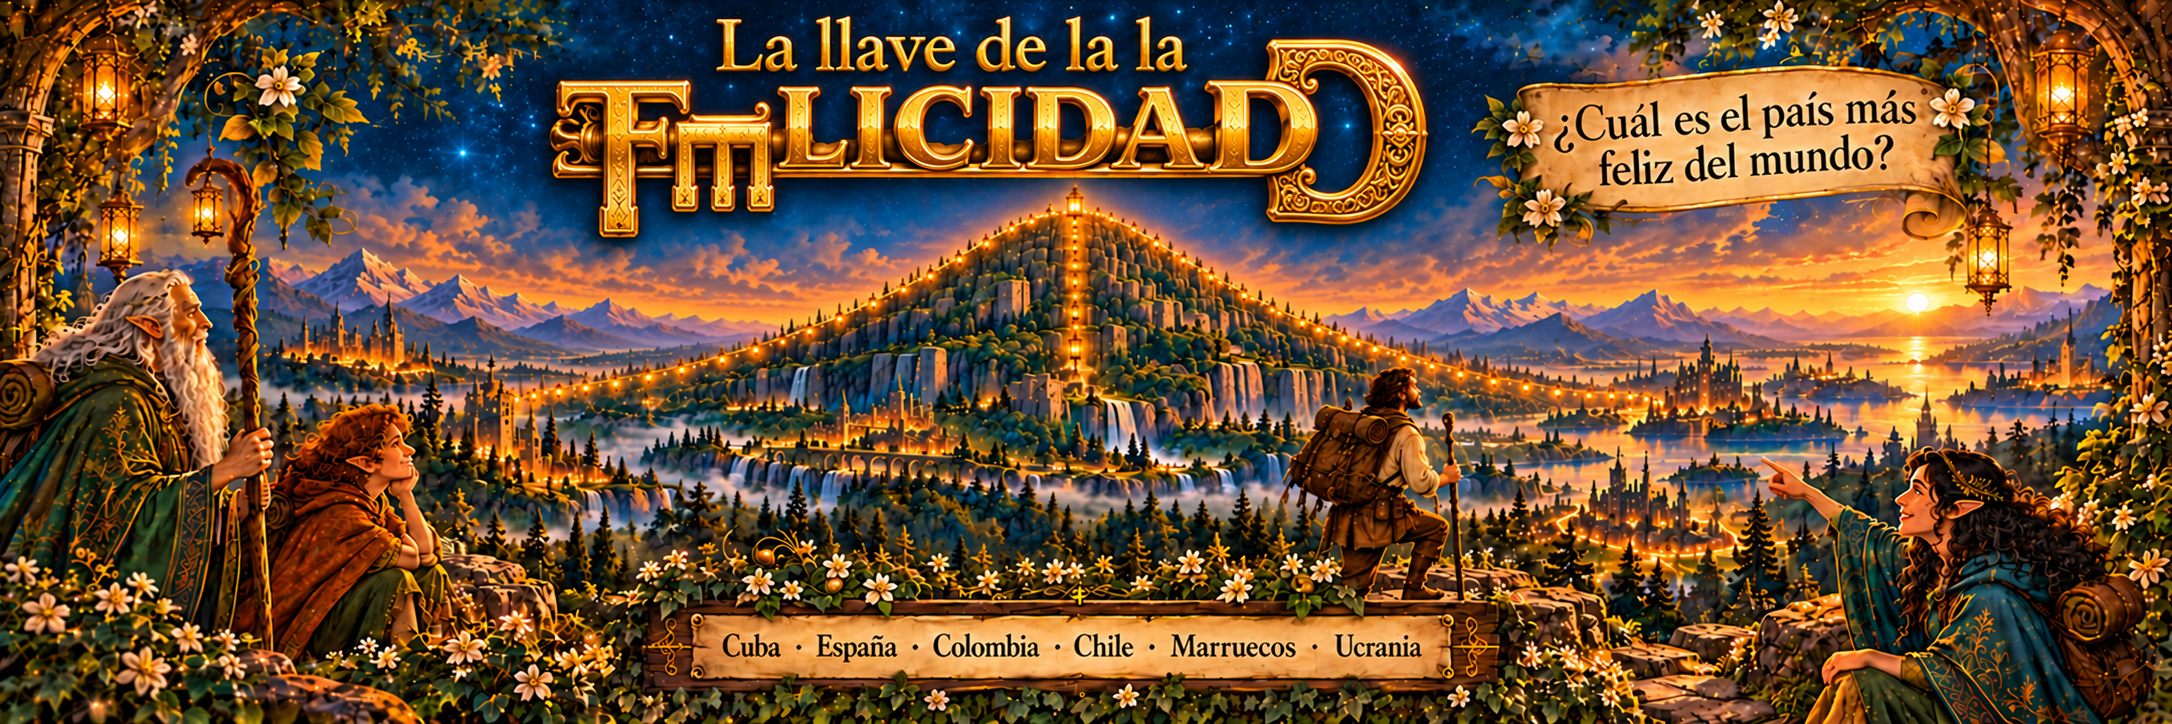
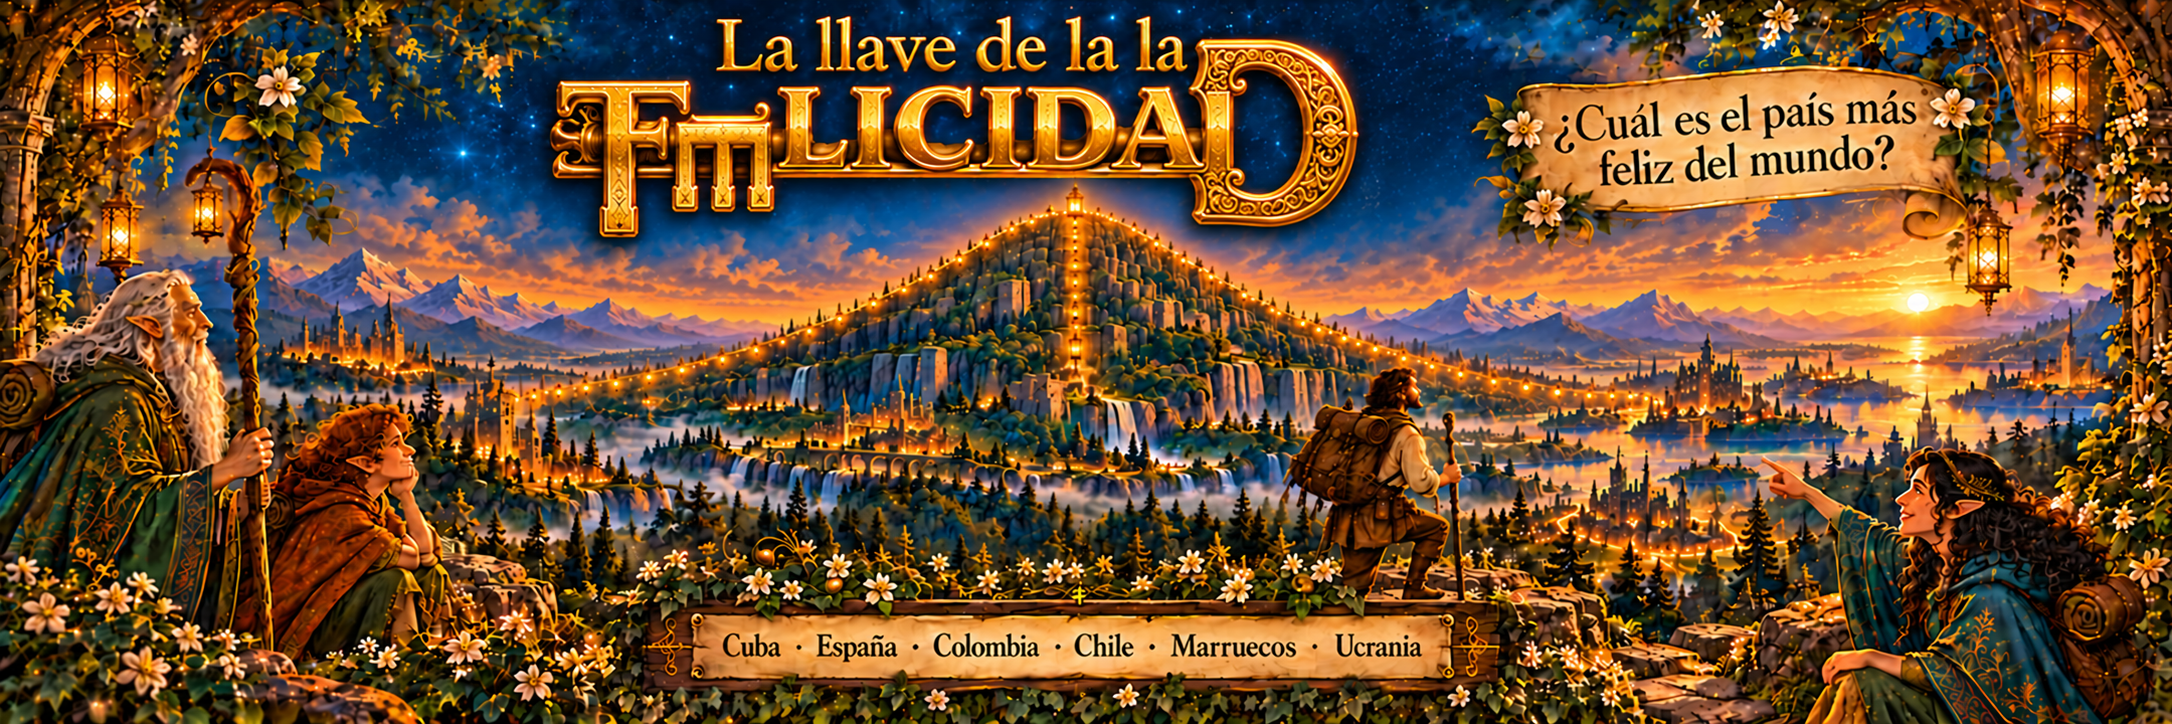
Actualiza portadas del README y del notebook

diff --git a/README.md b/README.md
@@ -1,4 +1,6 @@
-# EDA de felicidad mundial
+# EDA de la felicidad mundial
+
+![La felicidad en datos: análisis exploratorio del bienestar mundial](reports/figures/banner_readme.png)
 
 Proyecto individual de análisis exploratorio de datos realizado con Python.
 
